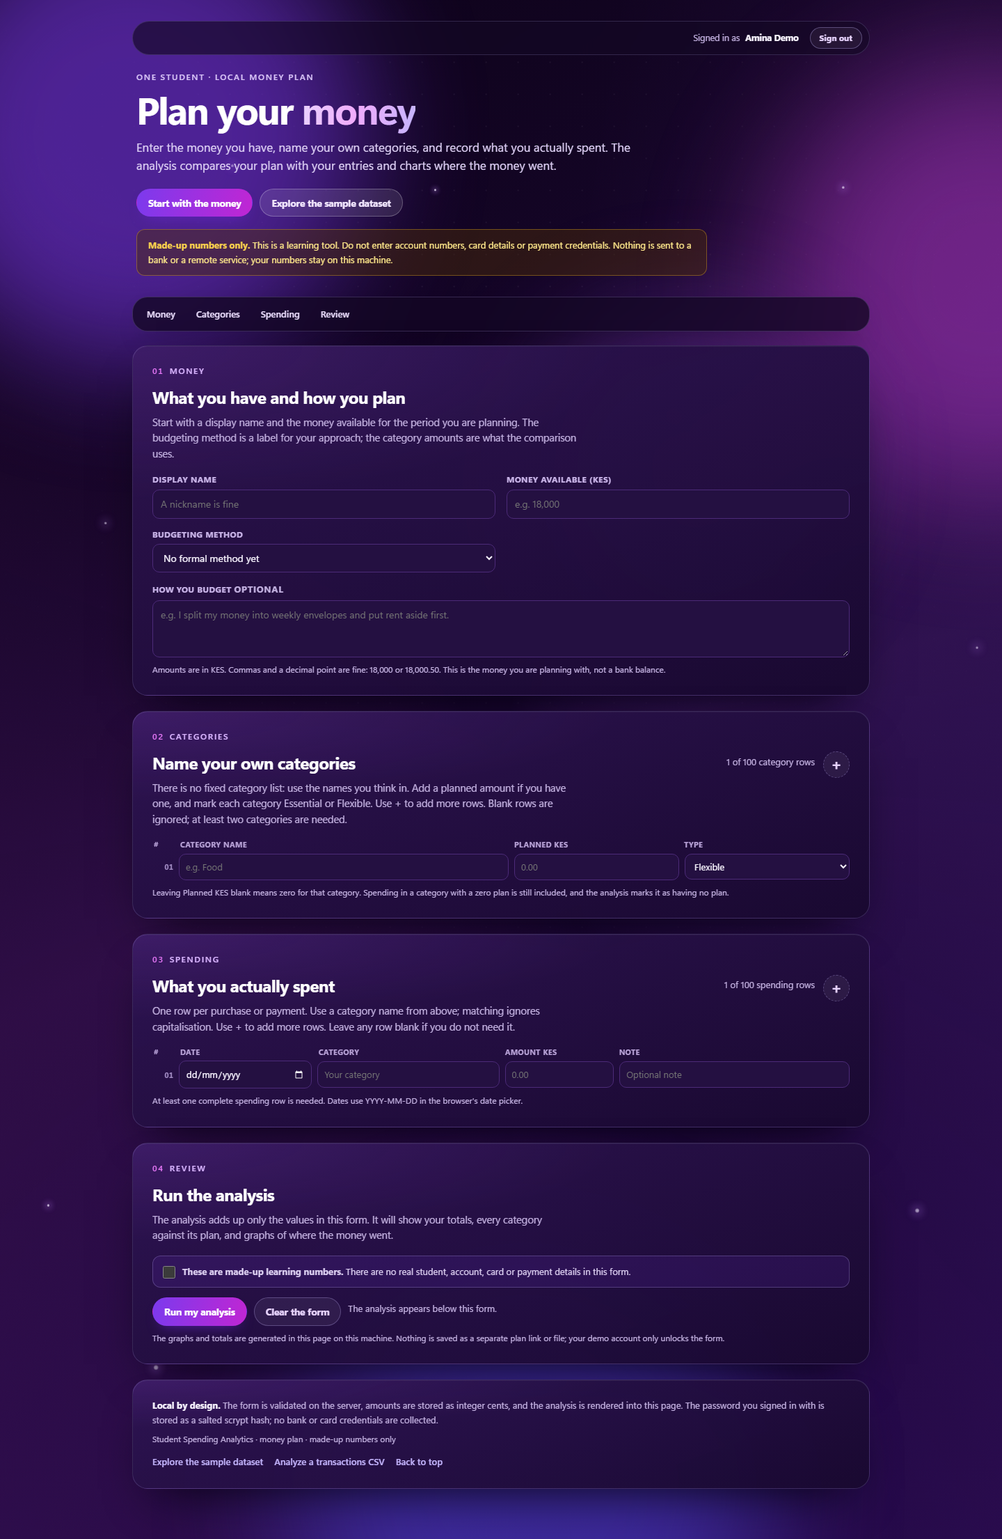
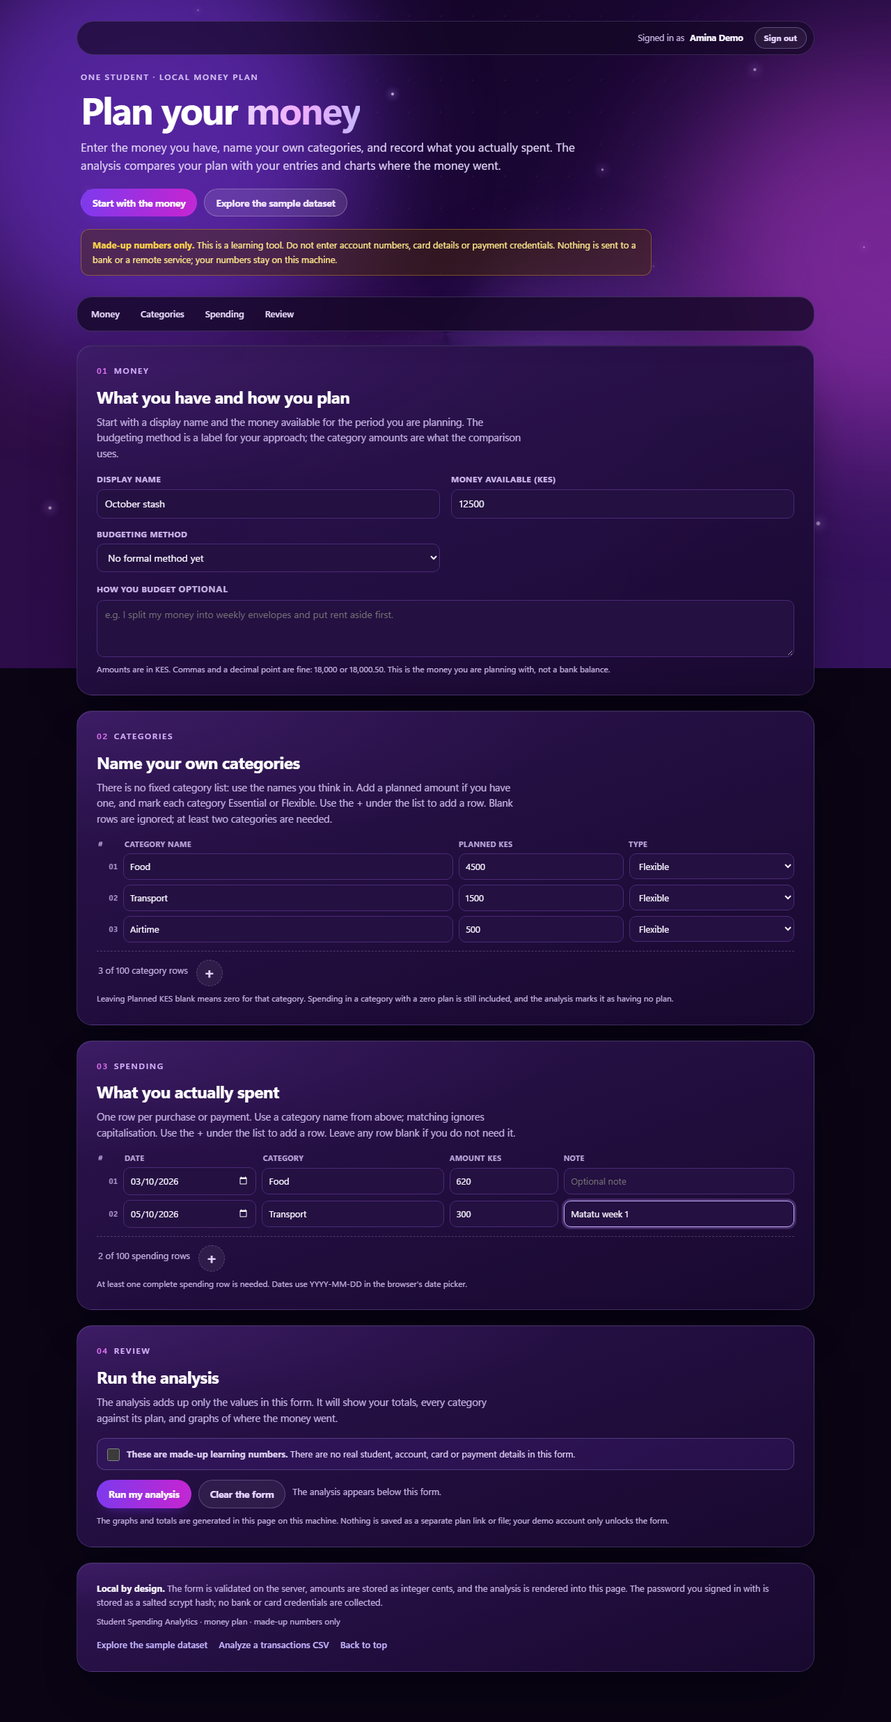
feat: put add-row controls under the planner lists
Move the category and spending + bars below their rows, round-trip the
draft through a no-validation POST, and land the smooth fragment scroll
with the new row and control in view via scroll-margin-top. The added
row gets a row-in animation and autofocus, with reduced-motion covered.

diff --git a/src/student_spending/web.py b/src/student_spending/web.py
@@ -273,14 +273,20 @@ button:focus-visible { outline: 3px solid rgba(240,171,252,.55); outline-offset:
 .plan-row-head { padding: 0 2px 4px; color: #b9a3d8; font-size: 10.5px;
   text-transform: uppercase; letter-spacing: .06em; font-weight: 800; }
 .plan-row { margin-bottom: 7px; }
+.plan-row-new { animation: row-in .5s cubic-bezier(.2,.9,.3,1.15) both; }
+@keyframes row-in {
+  from { opacity: 0; transform: translateY(-8px); }
+  to { opacity: 1; transform: none; }
+}
 .plan-row input, .plan-row select { padding: 8px 9px; font-size: 13px; }
 .row-no { color: #a28cc4; font-size: 11px; font-weight: 700;
   font-variant-numeric: tabular-nums; text-align: right; }
 .plan-section-note { margin: 8px 0 0; color: var(--muted); font-size: 12px; }
-.plan-title-row { display: flex; flex-wrap: wrap; gap: 8px 16px; align-items: center;
-  justify-content: space-between; }
-.plan-add { display: flex; flex-wrap: wrap; gap: 8px 12px; align-items: center; }
+.plan-add { display: flex; flex-wrap: wrap; gap: 8px 12px; align-items: center;
+  margin: 12px 0 0; padding: 12px 2px 0;
+  border-top: 1px dashed rgba(196,181,253,.28); }
 .plan-add .button { border-style: dashed; }
+#categories-end, #spending-end { scroll-margin-top: 200px; }
 .plan-add-button { width: 38px; height: 38px; padding: 0; font-size: 22px;
   line-height: 1; }
 .plan-add-button span { display: inline-block; transform: translateY(-1px);
@@ -588,6 +594,7 @@ button:focus-visible { outline: 3px solid rgba(240,171,252,.55); outline-offset:
 @media (prefers-reduced-motion: reduce) {
   .button, button, .account-links .account-cta, .plan-add-button span,
   .upload-form input[type="file"]::file-selector-button,
+  .plan-row-new,
   .welcome-card, .welcome-card::before, .welcome-halo, .welcome-ring,
   .welcome-logo-shell, .welcome-logo, .welcome-progress span,
   .welcome-progress span::after, .loading-dots i { animation: none; transition: none; }
@@ -2075,14 +2082,16 @@ def _plan_error_banner(errors: list[str]) -> str:
     )
 
 
-def _category_row(number: int, row: object) -> str:
+def _category_row(number: int, row: object, *, is_new: bool = False) -> str:
     essential = bool(getattr(row, "essential", False))
+    autofocus = " autofocus" if is_new else ""
     return f"""
-      <div class="plan-row cat-cols">
+      <div class="plan-row cat-cols{" plan-row-new" if is_new else ""}"
+        id="plan-cat-{number}">
         <span class="row-no" aria-hidden="true">{number:02d}</span>
         <input name="category_name_{number}" type="text" maxlength="{MAX_CATEGORY_NAME_LENGTH}"
           value="{escape_attr(getattr(row, 'name', ''))}" placeholder="e.g. Food"
-          aria-label="Category {number} name" autocomplete="off">
+          aria-label="Category {number} name" autocomplete="off"{autofocus}>
         <input name="category_amount_{number}" type="text" inputmode="decimal"
           value="{escape_attr(getattr(row, 'planned', ''))}" placeholder="0.00"
           aria-label="Category {number} planned amount in KES">
@@ -2093,13 +2102,15 @@ def _category_row(number: int, row: object) -> str:
       </div>"""
 
 
-def _spending_row(number: int, row: object) -> str:
+def _spending_row(number: int, row: object, *, is_new: bool = False) -> str:
+    autofocus = " autofocus" if is_new else ""
     return f"""
-      <div class="plan-row spend-cols">
+      <div class="plan-row spend-cols{" plan-row-new" if is_new else ""}"
+        id="plan-spend-{number}">
         <span class="row-no" aria-hidden="true">{number:02d}</span>
         <input name="spending_date_{number}" type="date"
           value="{escape_attr(getattr(row, 'spent_on', ''))}"
-          aria-label="Spending row {number} date">
+          aria-label="Spending row {number} date"{autofocus}>
         <input name="spending_category_{number}" type="text"
           maxlength="{MAX_CATEGORY_NAME_LENGTH}"
           value="{escape_attr(getattr(row, 'category', ''))}" placeholder="Your category"
@@ -2131,8 +2142,8 @@ def _add_row_control(
         '<div class="plan-add">'
         f'<span class="section-note">{rows} of {maximum} {noun} rows</span>'
         '<button class="button ghost plan-add-button" type="submit" '
-        f'name="action" value="{action}" formaction="/plan#{section}" formnovalidate '
-        f'aria-label="{label}" title="{label}">'
+        f'name="action" value="{action}" formaction="/plan#{section}-end" '
+        f'formnovalidate aria-label="{label}" title="{label}">'
         '<span aria-hidden="true">+</span></button>'
         "</div>"
     )
@@ -2146,6 +2157,8 @@ def render_plan_page(
     analysis: PlanAnalysis | None = None,
     category_rows: int = CATEGORY_ROWS,
     spending_rows: int = SPENDING_ROWS,
+    new_category_row: int | None = None,
+    new_spending_row: int | None = None,
     account: Account | None = None,
 ) -> str:
     draft = draft or PlanDraft()
@@ -2157,11 +2170,11 @@ def render_plan_page(
         max(SPENDING_ROWS, len(draft.spendings), spending_rows), MAX_SPENDINGS
     )
     categories_html = "".join(
-        _category_row(number, draft.category(number))
+        _category_row(number, draft.category(number), is_new=number == new_category_row)
         for number in range(1, category_rows + 1)
     )
     spendings_html = "".join(
-        _spending_row(number, draft.spending(number))
+        _spending_row(number, draft.spending(number), is_new=number == new_spending_row)
         for number in range(1, spending_rows + 1)
     )
     analysis_html = (
@@ -2258,20 +2271,19 @@ def render_plan_page(
 
     <section class="panel" id="categories" aria-labelledby="categories-title">
       <p class="eyebrow"><span class="section-no">02</span> Categories</p>
-      <div class="plan-title-row">
-        <h2 id="categories-title">Name your own categories</h2>
-        {add_category}
-      </div>
+      <h2 id="categories-title">Name your own categories</h2>
       <p class="lead">There is no fixed category list: use the names you think in.
         Add a planned amount if you have one, and mark each category Essential or
-        Flexible. Use + to add more rows. Blank rows are ignored; at least two
-        categories are needed.</p>
+        Flexible. Use the + under the list to add a row. Blank rows are ignored;
+        at least two categories are needed.</p>
       <div class="plan-rows">
         <div class="plan-row-head cat-cols">
           <span>#</span><span>Category name</span><span>Planned KES</span><span>Type</span>
         </div>
         {categories_html}
       </div>
+      <div id="categories-end"></div>
+      {add_category}
       <p class="plan-section-note">Leaving Planned KES blank means zero for that
         category. Spending in a category with a zero plan is still included, and the
         analysis marks it as having no plan.</p>
@@ -2279,13 +2291,10 @@ def render_plan_page(
 
     <section class="panel" id="spending" aria-labelledby="spending-title">
       <p class="eyebrow"><span class="section-no">03</span> Spending</p>
-      <div class="plan-title-row">
-        <h2 id="spending-title">What you actually spent</h2>
-        {add_spending}
-      </div>
+      <h2 id="spending-title">What you actually spent</h2>
       <p class="lead">One row per purchase or payment. Use a category name from above;
-        matching ignores capitalisation. Use + to add more rows. Leave any row blank
-        if you do not need it.</p>
+        matching ignores capitalisation. Use the + under the list to add a row. Leave
+        any row blank if you do not need it.</p>
       <div class="plan-rows">
         <div class="plan-row-head spend-cols">
           <span>#</span><span>Date</span><span>Category</span>
@@ -2293,6 +2302,8 @@ def render_plan_page(
         </div>
         {spendings_html}
       </div>
+      <div id="spending-end"></div>
+      {add_spending}
       <p class="plan-section-note">At least one complete spending row is needed.
         Dates use YYYY-MM-DD in the browser's date picker.</p>
     </section>
@@ -2864,7 +2875,7 @@ class DashboardServer(ThreadingHTTPServer):
 
 class DashboardHandler(BaseHTTPRequestHandler):
     server: DashboardServer
-    server_version = "StudentSpendingDashboard/2.5.0"
+    server_version = "StudentSpendingDashboard/2.6.0"
     sys_version = ""
     timeout = 30
 
@@ -3362,6 +3373,8 @@ class DashboardHandler(BaseHTTPRequestHandler):
                     draft=draft,
                     category_rows=category_rows,
                     spending_rows=spending_rows,
+                    new_category_row=category_rows if action == "add_category" else None,
+                    new_spending_row=spending_rows if action == "add_spending" else None,
                     account=account,
                 ),
             )

diff --git a/tests/test_web.py b/tests/test_web.py
@@ -1168,6 +1168,21 @@ class MoneyPlanTests(unittest.TestCase):
         self.assertIn('aria-label="Add another spending row"', page)
         self.assertIn("1 of 100 category rows", page)
         self.assertIn("1 of 100 spending rows", page)
+        self.assertIn('formaction="/plan#categories-end"', page)
+        self.assertIn('formaction="/plan#spending-end"', page)
+        self.assertIn('id="categories-end"', page)
+        self.assertIn('id="spending-end"', page)
+        self.assertGreater(
+            page.index('aria-label="Add another category"'),
+            page.index('name="category_name_1"'),
+        )
+        self.assertGreater(
+            page.index('aria-label="Add another spending row"'),
+            page.index('name="spending_date_1"'),
+        )
+        self.assertNotIn('class="plan-row cat-cols plan-row-new"', page)
+        self.assertNotIn('class="plan-row spend-cols plan-row-new"', page)
+        self.assertNotIn("autofocus", page)
 
     def test_add_category_keeps_typed_values_without_saving(self) -> None:
         fields = self.plan_fields(
@@ -1190,6 +1205,14 @@ class MoneyPlanTests(unittest.TestCase):
         self.assertIn('value="Rent"', page)
         self.assertIn('value="October rent"', page)
         self.assertIn("2 of 100 category rows", page)
+        self.assertIn('id="plan-cat-2"', page)
+        self.assertIn("plan-row-new", page)
+        self.assertIn('aria-label="Category 2 name" autocomplete="off" autofocus', page)
+        self.assertNotIn('id="plan-cat-1" class="plan-row cat-cols plan-row-new"', page)
+        self.assertGreater(
+            page.index('aria-label="Add another category"'),
+            page.index('name="category_name_2"'),
+        )
         self.assertNotIn("What the numbers say", page)
 
     def test_add_spending_keeps_typed_values_without_saving(self) -> None:
@@ -1212,6 +1235,13 @@ class MoneyPlanTests(unittest.TestCase):
         self.assertIn('value="Amina"', page)
         self.assertIn('value="October rent"', page)
         self.assertIn("2 of 100 spending rows", page)
+        self.assertIn('id="plan-spend-2"', page)
+        self.assertIn("plan-row-new", page)
+        self.assertIn('aria-label="Spending row 2 date" autofocus', page)
+        self.assertGreater(
+            page.index('aria-label="Add another spending row"'),
+            page.index('name="spending_date_2"'),
+        )
         self.assertNotIn("What the numbers say", page)
 
     def test_extra_category_rows_reach_the_inline_analysis(self) -> None:

diff --git a/src/student_spending/__init__.py b/src/student_spending/__init__.py
@@ -1,3 +1,3 @@
 """Student Spending Analytics pipeline package."""
 
-__version__ = "2.5.0"
+__version__ = "2.6.0"

diff --git a/docs/LEARNING_LOG.md b/docs/LEARNING_LOG.md
@@ -28,6 +28,7 @@ useful to whoever maintains this project next — including future me.
 | 18. Local demo accounts | done | `accounts.py`, `/signup`, `/login`, `/logout`, scrypt hashes, hashed session tokens, gated `/plan` and `/upload` with the sample dashboard still public, 157 tests, browser-checked at 1440 px, 1280 px and 390 px |
 | 19. Sign-in loading screen and button motion | done | authenticated `/welcome` with an animated tick, rings and progress bar, `meta refresh` hand-off after 2.6 s, CSS-only button hover/press/sheen across the platform, reduced-motion and phone fallbacks, 158 tests, browser-checked at 1440 px and 390 px with the redirect confirmed |
 | 20. Plan It brand on the loading screen | done | packaged `plan-it-logo.jpg` served from `/assets/`, `img-src 'self' data:`, wordmark and slogan on `/welcome`, 13-second linear countdown, animated logo tile and rings, 158 tests, browser-checked at 1440 px and 390 px with a measured 13.2-second redirect |
+| 21. Bottom add-row controls | done | **+** bars under both planner lists, `#categories-end`/`#spending-end` anchors, `row-in` animation on the new row, `scroll-margin-top` landing the new row and control in view, draft preserved through the no-save round-trip, 158 tests, 26 browser checks at 1280 px plus a reduced-motion pass |
 
 ## Decisions worth remembering
 
@@ -190,6 +191,19 @@ useful to whoever maintains this project next — including future me.
   than a normal hand-off, so an aggressive ease-out would race the bar to 90% and then
   appear stuck. Linear progress plus **Continue now** keeps the screen honest and
   escapable.
+- **The add-row control belongs at the end of the list it grows.** With the **+** beside
+  the heading, the new row appeared off-screen; the control and its counter now sit in a
+  dashed bar under the rows, so the button is where the eye already is when the list
+  ends.
+- **"Seamless" without script means the draft round-trip, not a client-side insert.**
+  The **+** submits the whole form with `formnovalidate`; the server re-renders with one
+  more row and the same typed values. The `formaction` fragment names an end-of-list
+  anchor, so the browser's own fragment scroll does the rest. No validation runs and
+  nothing is stored on this path.
+- **The new row animates and the landing point is tuned with `scroll-margin-top`.**
+  The freshly added row carries `row-in` and an `autofocus`; `scroll-margin-top: 120px`
+  on the end anchor makes the smooth fragment scroll stop with the new row and the
+  **+** bar both visible, instead of aligning the anchor to the very top edge.
 
 ## Bugs hit during development
 
@@ -413,6 +427,34 @@ useful to whoever maintains this project next — including future me.
     *Lesson:* easing designed for a short transition is misleading when stretched across
     a countdown.
 
+32. **A negative "test" of the new-row class failed on the stylesheet.** The initial-render
+    test asserted `assertNotIn("plan-row-new", page)`, but the page's inline `<style>`
+    contains the `.plan-row-new` selector, so the CSS string tripped the check while the
+    markup was correct. *Fix:* assert against the markup class attribute instead
+    (`class="plan-row cat-cols plan-row-new"`). *Lesson:* a rendered page is HTML plus
+    CSS plus text; negative assertions must name the surface they mean.
+
+33. **The new row landed just above the viewport.** The `#categories-end` anchor sat right
+    after the rows and aligned the anchor top to the viewport top, pushing the fresh row
+    off-screen by a few pixels. A guess at a negative `scroll-margin-top` then overshot on
+    a short page and clamped at the maximum scroll, hiding the row entirely. A positive
+    120 px margin then worked on desktop but put the taller, stacked phone row 46 px above
+    the fold. *Fix:* `scroll-margin-top: 200px`, measured live to leave the new row at
+    about 155 px with the **+** bar just below on desktop, and the row at about 34 px on a
+    390 px phone. *Lesson:* scroll offsets respond to page length, content below the
+    target and row height at each breakpoint; verify the landing position at more than one
+    width, not just that scrolling happened.
+
+34. **Fragment scrolling appeared not to work, twice for the wrong reason.** The first
+    probe sampled `window.scrollY` a few hundred milliseconds after load and saw zero,
+    because `scroll-behavior: smooth` turns the fragment jump into an animation that
+    starts late and takes about a second. The same probe also expected `autofocus` to
+    focus the new field, but Chromium does not process `autofocus` on a navigation caused
+    by a form submission. *Fix:* wait for the scroll to settle before measuring, assert the
+    rendered `autofocus` attribute rather than active focus, and document the browser
+    behaviour. *Lesson:* a timing artifact can look exactly like a missing feature; also,
+    `autofocus` is a best-effort hint across navigation types.
+
 ## Concepts this project exercises
 
 Extraction boundaries; per-row error isolation; normalisation vs validation; policy for
@@ -436,8 +478,10 @@ with a dummy hash; in-memory rate limiting with `Retry-After`; `meta refresh` as
 no-script redirect; SVG stroke-dash drawing and CSS keyframe staging behind a
 `prefers-reduced-motion` branch; pseudo-element sheen and gradient-position transitions
 on buttons; same-origin static assets with a narrow `img-src` allowance; package data for
-shipped media; linear progress pacing over a long staged wait; and the difference between
-"valid" and "unusual".
+shipped media; linear progress pacing over a long staged wait; `formaction` fragments and
+`formnovalidate` draft round-trips for add-row controls; `scroll-margin-top` tuning for
+fragment landings under smooth scrolling; entrance keyframes for a server-rendered row;
+and the difference between "valid" and "unusual".
 
 ## Next exercises (for the learner, not the pipeline)
 

diff --git a/README.md b/README.md
@@ -329,18 +329,24 @@ form is an ordinary HTML form with no JavaScript:
 2. **Categories** — name your own categories, in your own words. Each row takes an
    optional planned amount and an **Essential** or **Flexible** flag. There is no fixed
    category list. Blank rows are ignored, and at least two named categories are required.
-   The **+** button beside the heading adds rows, from one up to 100; it preserves every
+   The **+** button under the list adds rows, from one up to 100; it preserves every
    value you have typed and does not save a plan.
 3. **Spending** — one row per purchase or payment: date, one of your category names,
    amount and an optional note. Category matching ignores capitalisation, and entries in
    a category with no planned amount are still included and marked **No plan**. The
-   **+** button beside this heading adds rows, from one up to 100, with the same
+   **+** button under this list adds rows, from one up to 100, with the same
    preserve-and-do-not-save behaviour.
 4. **Review** — confirm the numbers are made up, then select **Run my analysis**.
 
 Amounts accept `2,500`, `2500`, `12 500` and `KES 2500.50`, and are stored as integer
 cents. The form starts with one category row and one spending row; the **+** buttons grow
 either list to 100. A plan cannot hold more than those limits.
+
+Adding a row is seamless with no JavaScript. The **+** control sits in a bar under each
+list. Pressing it posts the whole draft back to `/plan`, and the server re-renders the
+form with one more row: every value you typed is still there, the new row slides in, and
+the page lands on the end of that list so the fresh row and the **+** button stay in view.
+Nothing is validated or saved on this round-trip.
 
 Selecting **Run my analysis** keeps you on `/plan`: the page returns with every entered
 value still in the form and the analysis inserted below it at `#analysis`. There is no
@@ -633,7 +639,8 @@ and negative values), draft validation (names, duplicates, unknown spending cate
 dates, bounds, at least two categories and one spending row, synthetic confirmation),
 integer-cent analysis (planned/spent/left/unallocated, category statuses, essential and
 flexible shares, daily average), and the web flow: form rendering, adding category and
-spending rows while preserving input without saving, both 100-row limits, submission that
+spending rows under the list while preserving input without saving, the end-of-list
+fragment targets and the animated new row, both 100-row limits, submission that
 renders the analysis, charts and receipt in the same page with no redirect or saved file,
 validation errors that preserve input and render no analysis, cross-site and
 wrong-content-type guards, injected-text escaping, analysis with zero planned amounts,
@@ -692,6 +699,8 @@ sign-in while an unsafe `next` falls back to `/plan`.
 | The Plan It logo is a cached same-origin asset, not a data URI | A brand image is reused and cacheable; serving it from `/assets/` keeps the HTML small and lets `img-src` stay narrow at `'self' data:` |
 | A 13-second wait with a linear bar and a skip link | The duration is a deliberate product choice for the demo; a linear fill matches the actual wait, and **Continue now** keeps it from being a trap |
 | Button motion via CSS only, with a reduced-motion branch | Feedback on click should never depend on a script or a network round-trip; the same rules collapse to no motion when the OS asks for it |
+| The add-row **+** sits under its list, not beside the heading | New rows appear at the bottom of the list, so keeping the control there means the user never loses the button off-screen; the counter shares the same bar |
+| Adding a row round-trips the draft instead of editing the DOM | With no JavaScript the server must own the row count; `formnovalidate` plus an end-of-list `formaction` fragment re-renders the form without validating or saving, and the new row's `row-in` animation and `scroll-margin-top` landing make the reload feel like an insert |
 | Read-only SQLite URI plus `query_only` | The dashboard cannot accidentally write, even if a handler is wrong; each request gets its own short-lived connection |
 | Fixed sort and filter allow-lists | Untrusted input never becomes SQL text; `LIKE` wildcards are escaped and ordering is chosen from a dict |
 | Shared `theme.py` and `components.py` | The report, dashboard and planner use one visual language and one set of escaping/format helpers, so fixes apply to both |
@@ -755,7 +764,7 @@ external services.
   comparison between periods. It does not import the sample warehouse or an uploaded
   CSV, and it has no recurring-entry or currency-conversion support; all amounts are KES.
 - The planner form starts with one category row and one spending row, each extendable
-  to 100 with its **+** button. Every submission renders the analysis in the response
+  to 100 with the **+** button under its list. Every submission renders the analysis in the response
   and stores nothing: there is no history, no saved plan, no result link and no file to
   delete. Opening `/plan` again starts from a blank form.
 - Because nothing is saved, the analysis exists only in the page that answered the

diff --git a/CHANGELOG.md b/CHANGELOG.md
@@ -4,6 +4,28 @@ All notable changes to this project are documented here. The format follows
 [Keep a Changelog](https://keepachangelog.com/en/1.1.0/) and the project uses
 [semantic versioning](https://semver.org/spec/v2.0.0.html).
 
+## [2.6.0] - 2026-11-04
+
+Moves the add-row **+** controls under the Categories and Spending lists and makes adding
+a row feel continuous, still with no JavaScript.
+
+### Changed
+
+- The **+** control and its row counter now sit in a dashed-top bar under each list
+  instead of beside the section heading, so new rows appear where you are reading.
+- Adding a row keeps the whole draft: the **+** button posts the form with
+  `formnovalidate` to `/plan#categories-end` (or `#spending-end`), and the server
+  re-renders the form with one more row without validating or saving anything.
+- The newly added row gets a short `row-in` slide animation and an `autofocus` on its
+  first field, and `scroll-margin-top` on the end anchors lands the page with the new row
+  and the **+** bar both in view. Reduced-motion users get the same row with no animation.
+- The form lead copies now point to the **+** under the list, and the initial form render
+  carries neither the new-row animation nor an autofocus.
+
+Release version is now `2.6.0`; the suite is still 158 tests, with the add-row tests now
+covering the bottom placement, end anchors, preserved draft, new-row animation and
+autofocus.
+
 ## [2.5.0] - 2026-10-30
 
 Rebrands the loading screen as **Plan It**, drops in the supplied logo, and stretches the
